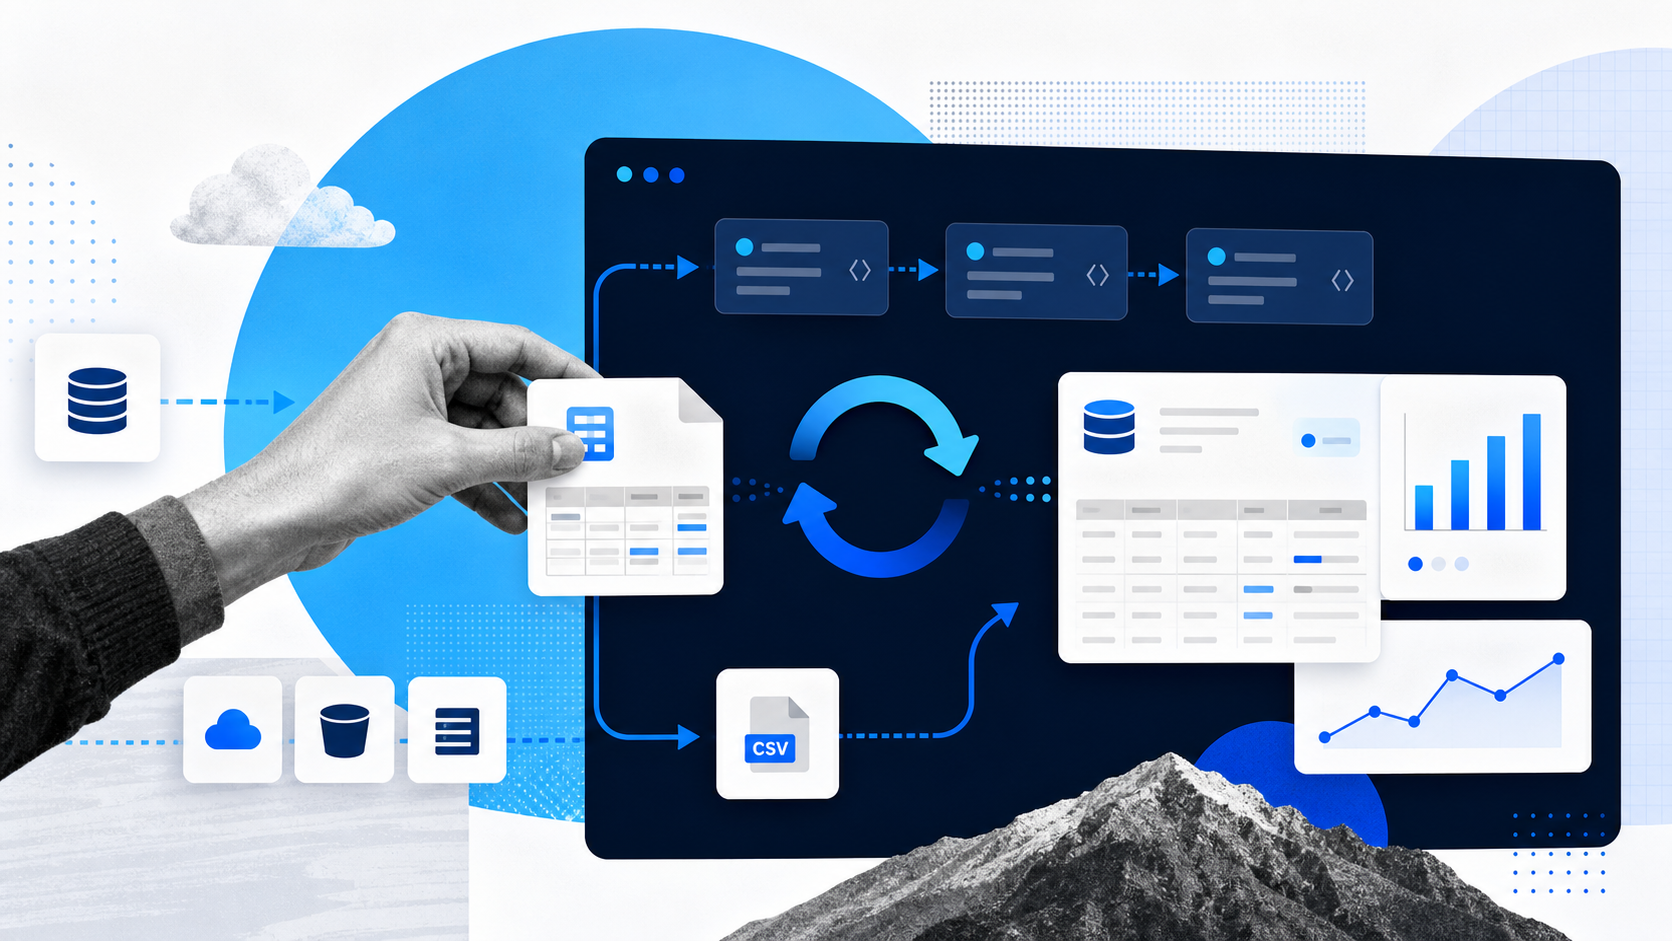
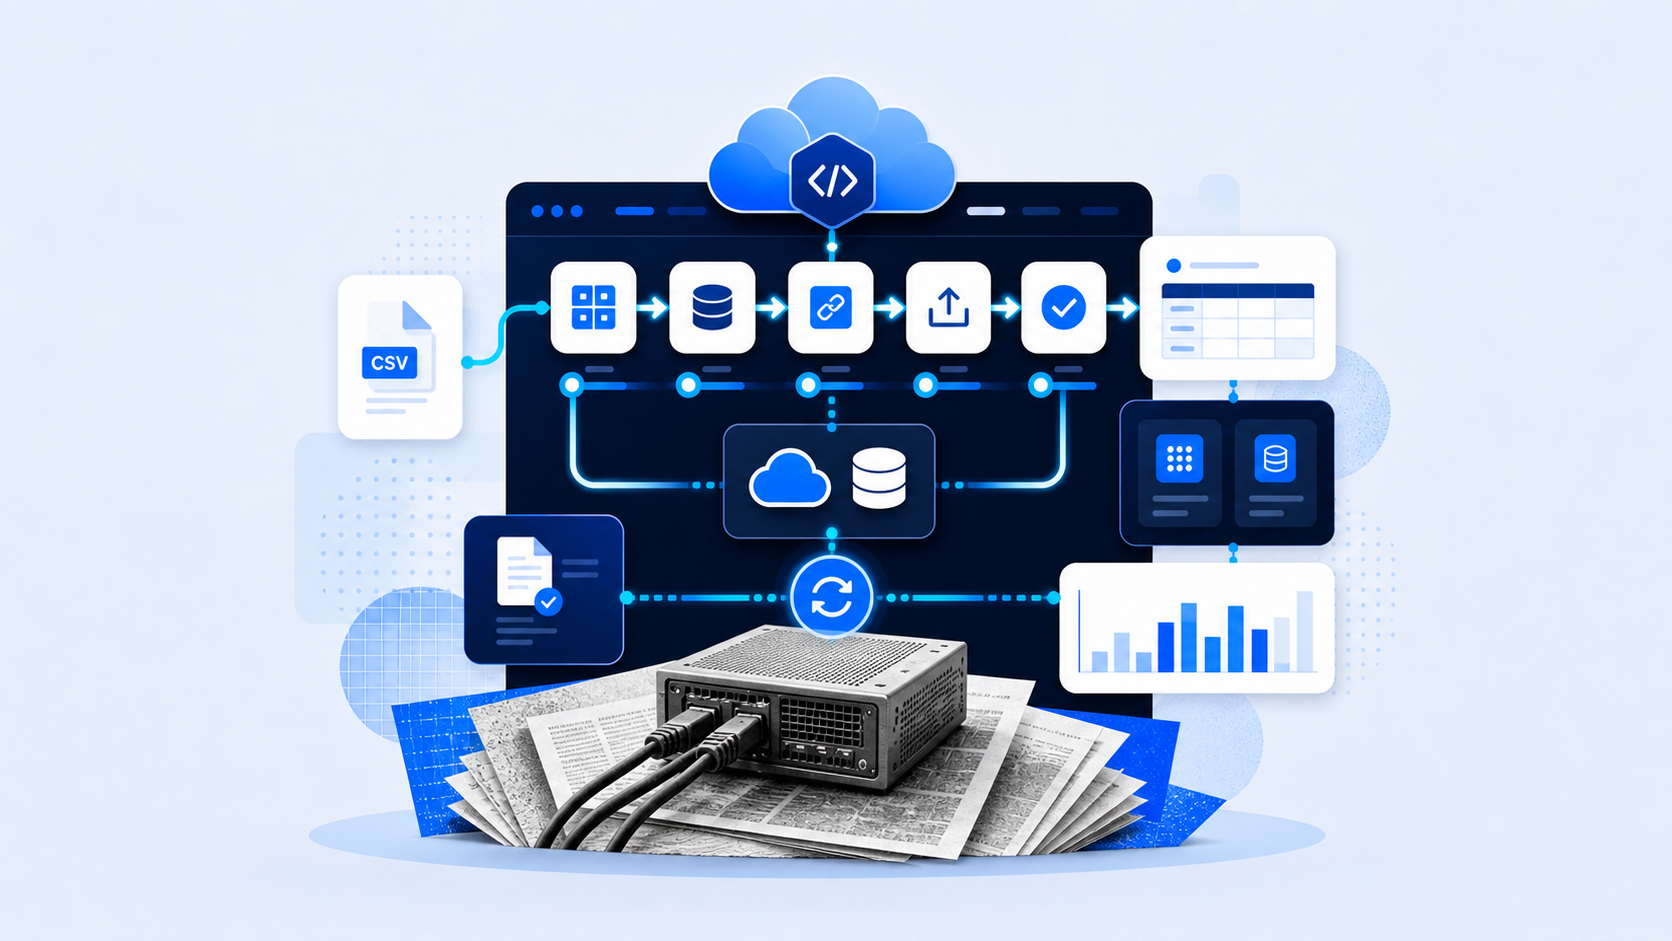
Merge pull request #1595 from datopian/fix/queryless-hero-image
fix(blog): update QuerylessAI post hero image

Pull request: fix(blog): update QuerylessAI post hero image
## Summary

- Replaces the old `chat-interface.png` hero image on the QuerylessAI blog post with the new illustrated version
- Frontmatter `image` field updated to point to `hero.png`

This was missed before PR #1593 was merged.

🤖 Generated with [Claude Code](https://claude.com/claude-code)

<!-- This is an auto-generated comment: release notes by coderabbit.ai -->
## Summary by CodeRabbit

* **Documentation**
  * Updated hero images across related blog posts by switching the front-matter image to a new `hero.png` asset.
<!-- end of auto-generated comment: release notes by coderabbit.ai -->

diff --git a/site/content/blog/portaljs-cloud-apis.md b/site/content/blog/portaljs-cloud-apis.md
@@ -11,7 +11,7 @@ keywords: PortalJS Cloud API, CKAN API migration, open data portal API
 description: "Migrating from CKAN to PortalJS Cloud and worried about your API integrations? Here's exactly what stays the same, what changes, and what you need to know before you migrate."
 authors: ['Yoana Popova']
 canonical: https://www.portaljs.com/blog/portaljs-cloud-apis
-image: /static/img/blog/2026-05-26-portaljs-cloud-apis/og-image.png
+image: /static/img/blog/2026-05-26-portaljs-cloud-apis/hero.png
 filetype: 'blog'
 ---
 

diff --git a/site/content/blog/portaljs-cloud-geospatial.md b/site/content/blog/portaljs-cloud-geospatial.md
@@ -11,7 +11,7 @@ keywords: PortalJS Cloud geospatial, open data portal map visualization, GeoJSON
 description: "Does PortalJS Cloud support geospatial visualizations? A clear breakdown of what works out of the box, what requires extension, and how to handle complex mapping requirements."
 authors: ['Yoana Popova']
 canonical: https://www.portaljs.com/blog/portaljs-cloud-geospatial
-image: /static/img/blog/2026-05-25-portaljs-cloud-geospatial/og-image.png
+image: /static/img/blog/2026-05-25-portaljs-cloud-geospatial/hero.png
 filetype: 'blog'
 ---
 

diff --git a/site/content/blog/talk-to-your-data-portal-in-plain-english-introducing-queryless-ai.md b/site/content/blog/talk-to-your-data-portal-in-plain-english-introducing-queryless-ai.md
@@ -8,7 +8,7 @@ tags:
   - data portals
   - AI
   - QuerylessAI
-image: "/static/img/blog/2026-03-06-talk-to-your-data-portal-in-plain-english-introducing-querylessai/chat-interface.png"
+image: "/static/img/blog/2026-03-06-talk-to-your-data-portal-in-plain-english-introducing-querylessai/hero.png"
 filetype: 'blog'
 ---
 